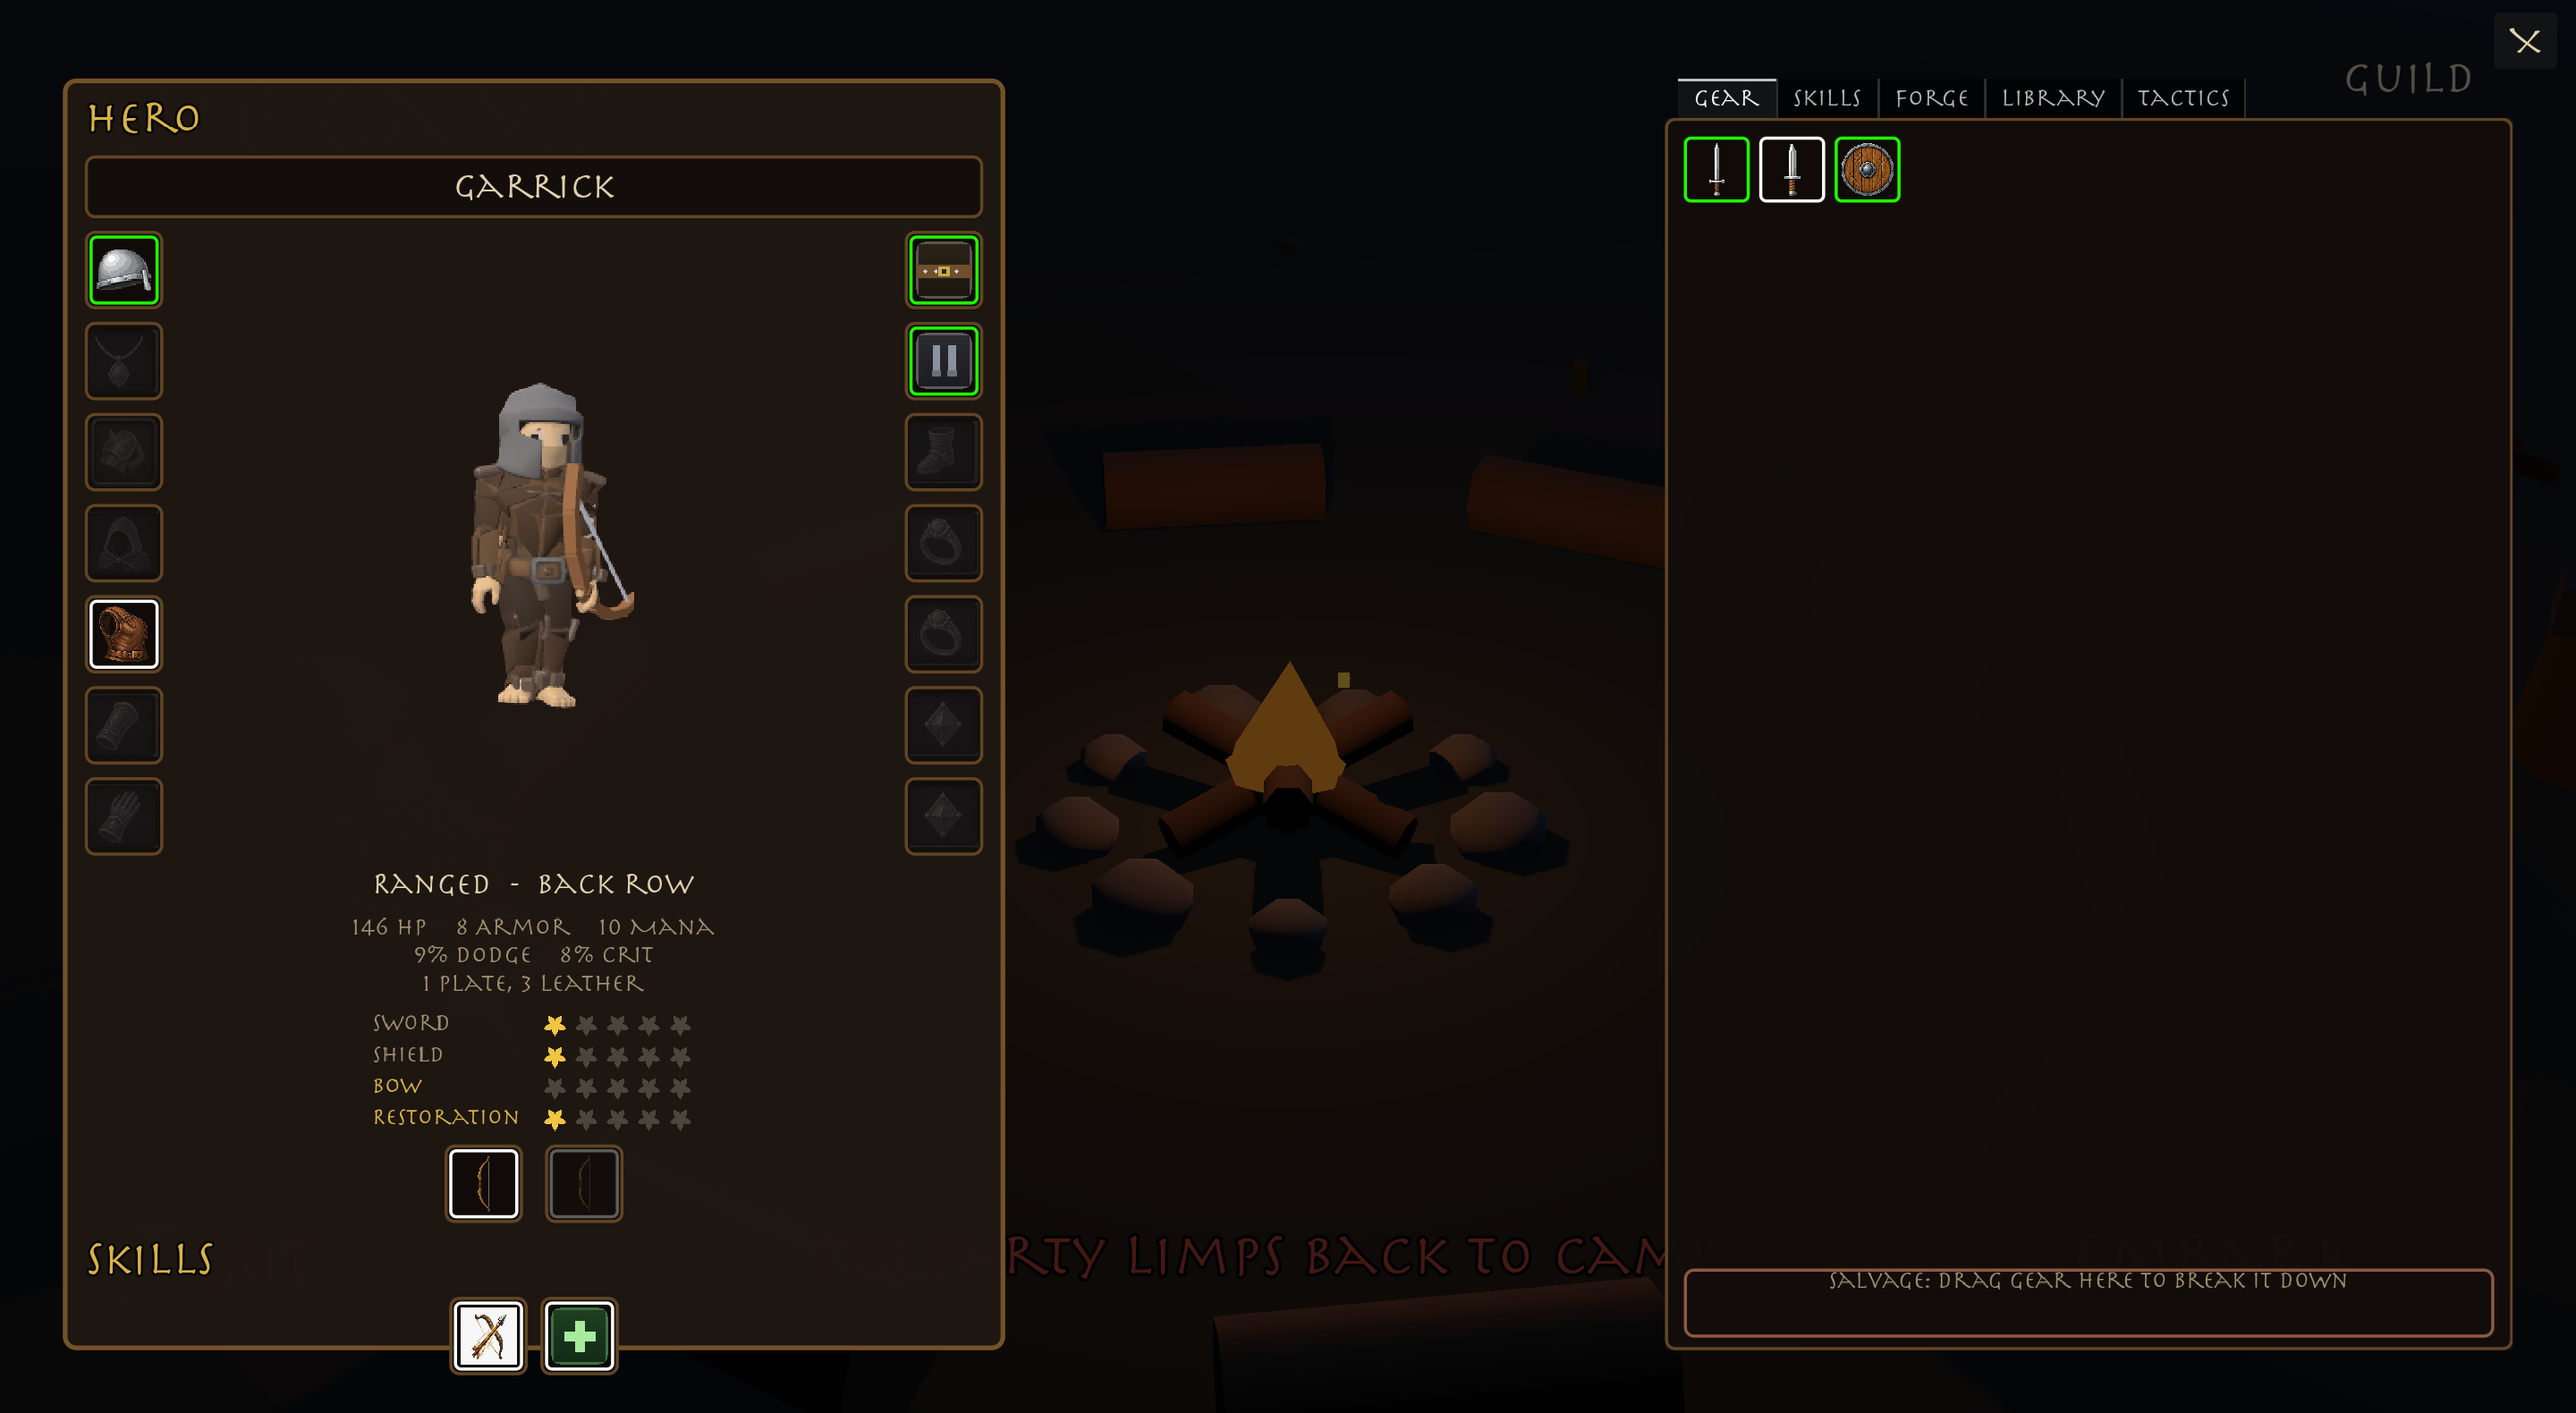
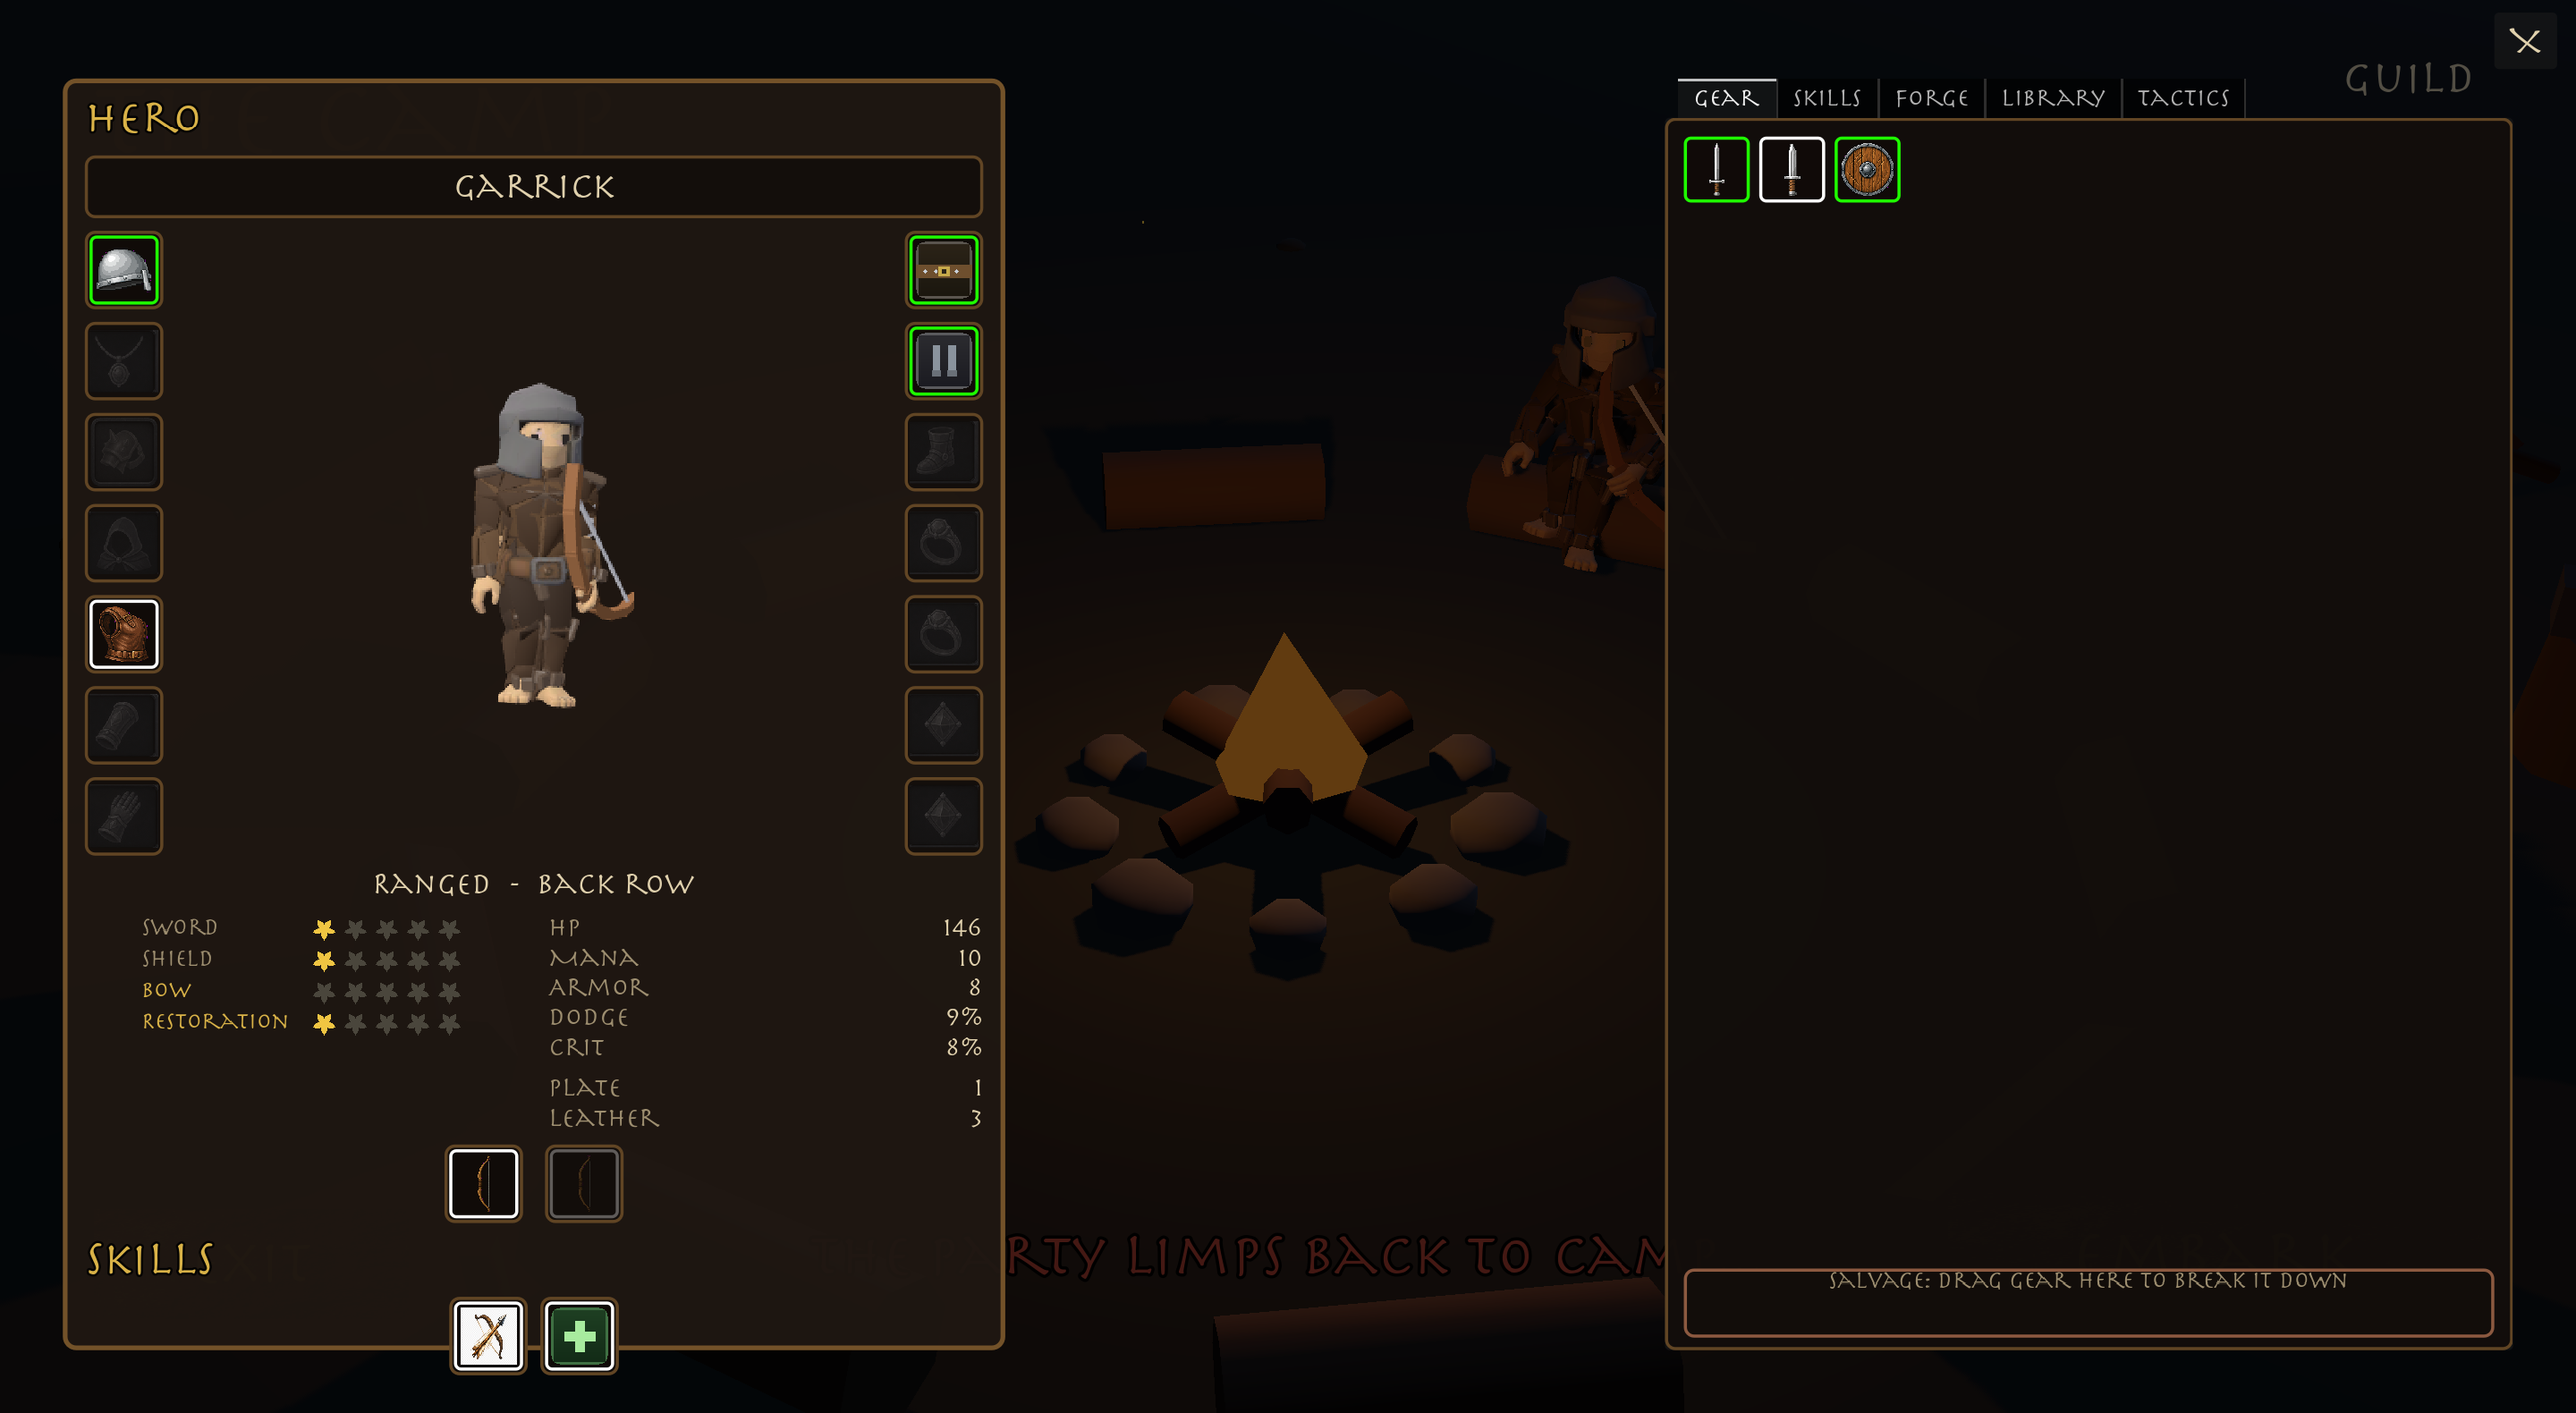
The character sheet: stats explain themselves, doctrines wait for their moment.
The Shield-Line was dropping for a delver with no line to hold:
ally-doctrines (guard, protect) now declare min_party and the loot
roll honors the real roster size - the tome waits until someone
arrives worth protecting. Pinned in test_doctrines both ways.

The hero panel is a proper sheet now: mastery stars left, stat table
right (name left-aligned, value right), armor census below - the
owner's mock, built. And every row teaches on hover: what armor
means, what block blocks, what each discipline trains from and its
full star track with earned unlocks in green. Nobody should have to
guess what 10 armor is.

46/46 tests (one new: no ally, no shield-line).

diff --git a/CHANGELOG.md b/CHANGELOG.md
@@ -5,6 +5,10 @@ Notable changes per pull request. Newest first.
 ## The Continuous Dungeon — Phase A *(open)*
 
 ### Added
+- **Stat and mastery tooltips**: every stat row and mastery row in
+  the hero panel explains itself on hover - what armor actually
+  does, what blocks, what rusts and what never fades, and each
+  discipline's full star track with unlocks marked green.
 - **Loadout totals**: the hero panel now sums the whole loadout -
   HP, armor, mana, block/dodge/crit, spell power, poison resist, and
   the worn armor-type counts - so three new pieces show up as
@@ -193,6 +197,13 @@ Notable changes per pull request. Newest first.
   fitted model covers the region.
 
 ### Changed
+- The hero panel lays out like a character sheet: mastery stars on
+  the left, the stat table (name left, value right) on the right,
+  armor-type census below.
+- **Fixed: the Shield-Line no longer drops for a lone delver** -
+  doctrines about protecting allies (guard, protect) declare
+  min_party and the loot roll honors the real roster size. "You're
+  not alone anymore" comes first; the tome waits.
 - The old combat theme no longer leaks in during dungeon compilation
   (stopped before the sim, restored only for themes without stems).
 - Loot toasts replace each other and fade out after a few seconds
